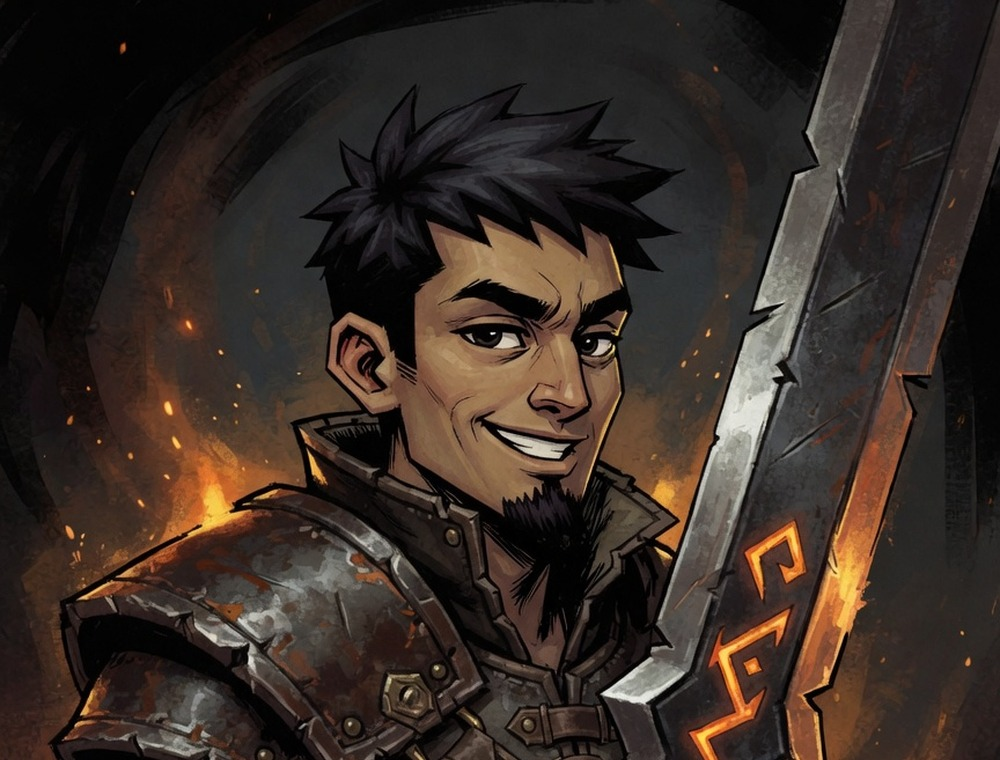
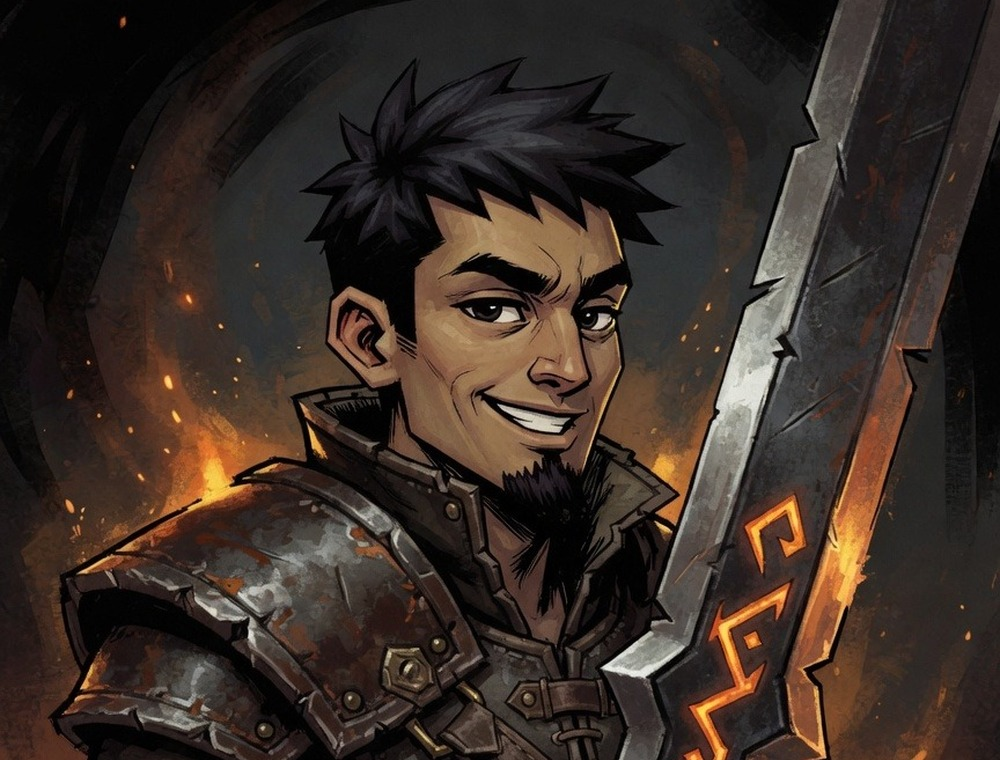
Wire locked portraits into game character-select charui assets.
Character picker uses charui/char_select_*.png (not catalog portrait_sts2).
Installed Brennen locked portrait + Whitney D3 into select/locked/icon and
rebuilt .pcks. Documented in AGENTS.md.

diff --git a/AGENTS.md b/AGENTS.md
@@ -144,6 +144,10 @@ Enable BaseLib + character mods in-game. BaseLib is required.
 4. **Still-lifes are allowed and good** when they share props/palette — they reduce cookie-cutter faces *and* sell the kit fantasy (wards, seals, mute disc, inkpot).
 5. **Green screen is for cutouts only** (full-body sprite, relics). Never leave it on card portraits.
 6. **Header portraits are a product surface.** They need a dedicated half-body hero shot (Whitney D3 quality), not a crop of the combat PNG.
+7. **In-game character select ≠ catalog header.** BaseLib loads:
+   - `images/charui/char_select_<id>.png` (+ `_locked`) — picker tiles (typically ~864×1152)
+   - `images/charui/character_icon_<id>.png` — small icon (~256×256)
+   - Catalog `docs/assets/<char>/portrait_sts2.jpg` is HTML-only until you also overwrite those charui files and rebuild the `.pck`.
 7. **User taste beats model defaults.** Whitney “younger” + “more like Brennen’s drawn C” + “blue eyes” + “ready not attack” + “face readable 3/4” were all necessary corrections; bake them into the bible.
 8. **Re-roll is normal.** Budget time for a “dupe audit” pass after the first full gen (Scorch/Refill/Updraft, Moss Coat/Zephyr Draft, Spark/Ripple/Novice Seal/Ember Armor, photoreal Drench Seal).
 9. **Catalog HTML is the QA tool.** Tabbed `docs/index.html` + hard refresh is faster than launching the game for art review; then build `.pck` when art is locked.
